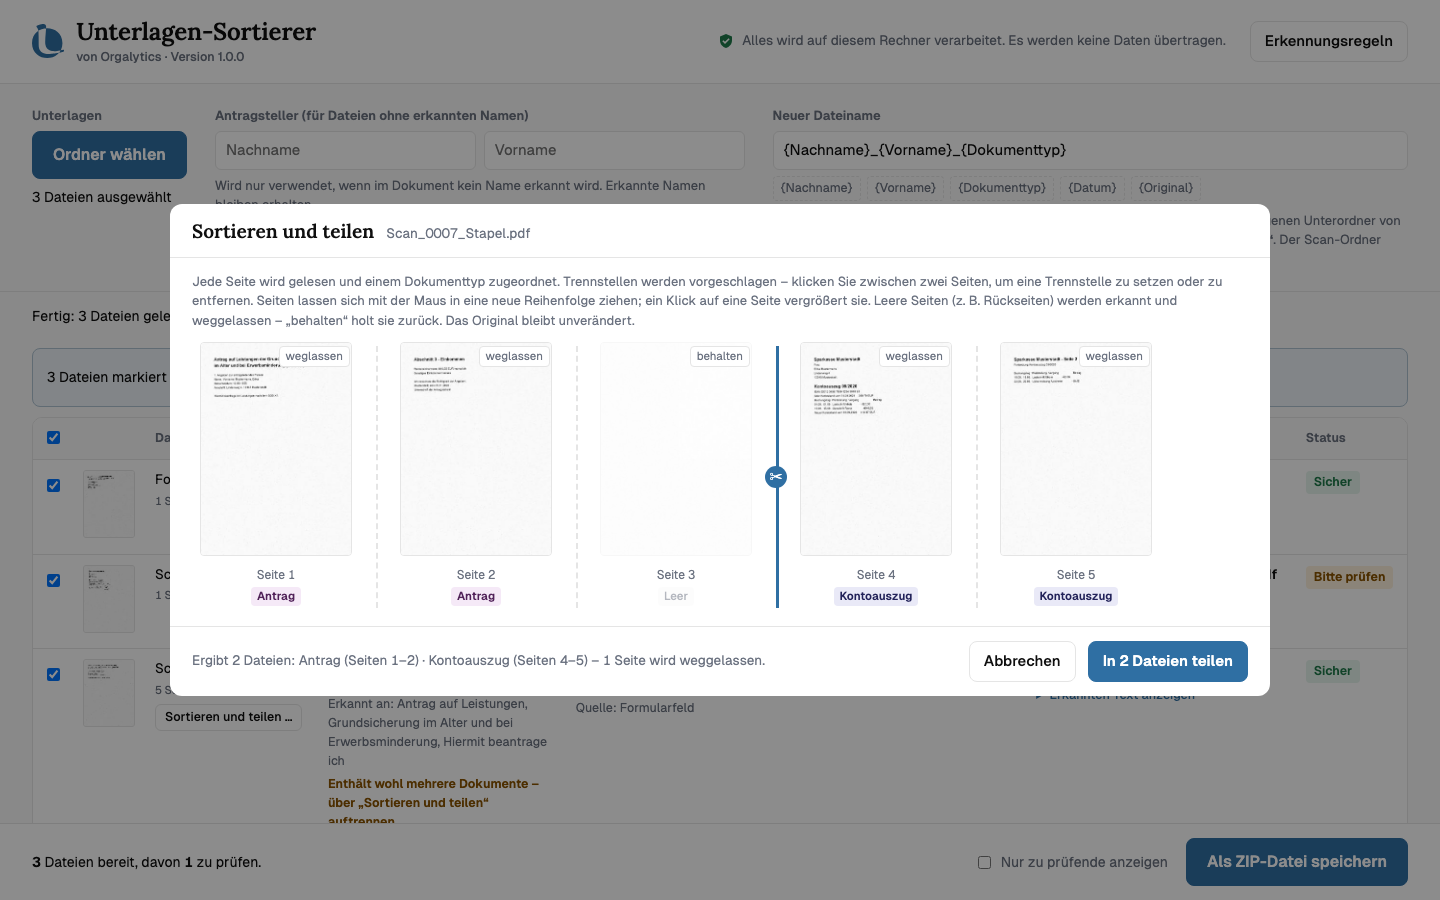
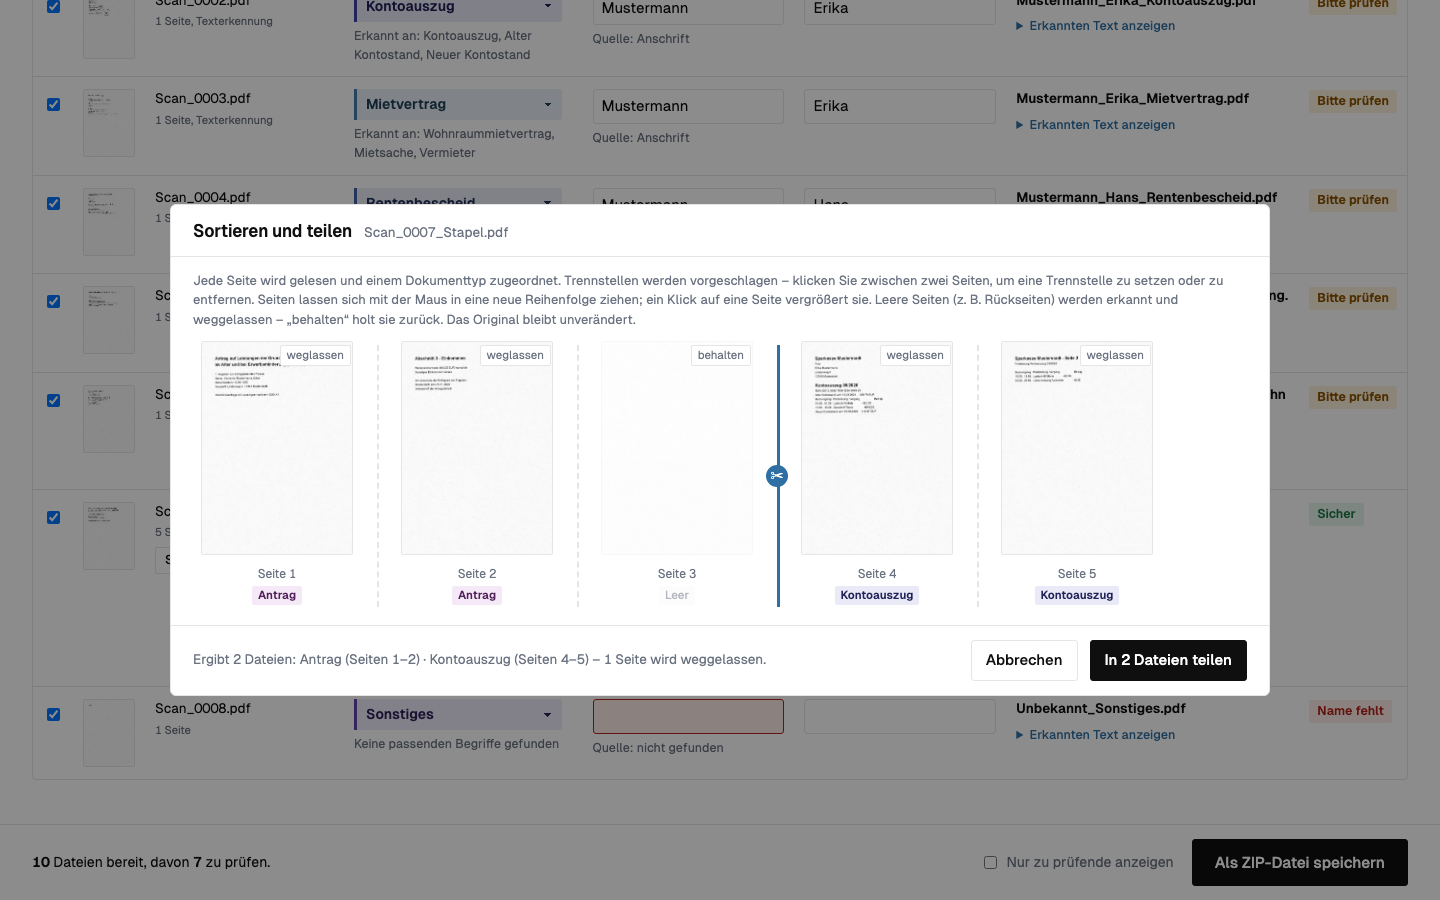
Design-Überarbeitung im Orgalytics-Stil (v1.2.0)
Anker: www.orgalytics.de. Weiße Flächen mit Haarlinien statt grauer
Kästen, Geist-Typografie, Radius und Schatten reduziert. Aktionsknöpfe
in Textfarbe (im Dunkelmodus invertiert), Markenblau nur noch als
Akzent (Links, Auswahl, Fortschritt, Fokus). Neuer Startbildschirm in
der Bildsprache der Website (Lora-kursives Akzentwort). Dunkler Modus
entsprechend überarbeitet; alle Farben weiterhin aus programm/marke.js.

README-Screenshots erneuert, CI-Test prüft zusätzlich Akzentwort und
Aktionsknopf-Farbe (jetzt 163 Prüfungen, alle grün).

diff --git a/Unterlagen-Sortierer/Unterlagen-Sortierer.html b/Unterlagen-Sortierer/Unterlagen-Sortierer.html
@@ -13,16 +13,19 @@
   --brand-muted: #6b7280;
   --brand-line: #e5e5e5;
   --font-text: "Geist", "Segoe UI Variable Text", "Segoe UI", system-ui, sans-serif;
-  --font-title: "Lora", Georgia, "Times New Roman", serif;
+  --font-accent: "Lora", Georgia, "Times New Roman", serif;
 
-  --paper: #fafafa;
+  --paper: #ffffff;
   --sheet: #ffffff;
+  --raised: #fafafa;
   --ink: var(--brand-ink);
   --muted: var(--brand-muted);
   --line: var(--brand-line);
   --accent: var(--brand);
   --accent-ink: #ffffff;
-  --accent-soft: color-mix(in srgb, var(--brand) 9%, white);
+  --accent-soft: color-mix(in srgb, var(--brand) 7%, white);
+  --action: var(--brand-ink);
+  --action-ink: #ffffff;
   --ok: #1f7a4a;
   --ok-bg: #e6f4ec;
   --check: #8a5300;
@@ -35,13 +38,16 @@
 @media (prefers-color-scheme: dark) {
   :root {
     --paper: var(--brand-ink);
-    --sheet: #191919;
+    --sheet: #161616;
+    --raised: #1e1e1e;
     --ink: #f2f2f2;
     --muted: #a3a9b2;
-    --line: #2c2c2c;
+    --line: #2b2b2b;
     --accent: color-mix(in srgb, var(--brand) 62%, white);
     --accent-ink: #0f0f0f;
-    --accent-soft: color-mix(in srgb, var(--brand) 22%, #191919);
+    --accent-soft: color-mix(in srgb, var(--brand) 20%, #161616);
+    --action: #f2f2f2;
+    --action-ink: #0f0f0f;
     --ok: #6ccb95;
     --ok-bg: #16301f;
     --check: #e6b25a;
@@ -66,16 +72,16 @@ button, input, select { font: inherit; color: inherit; }
 /* Kopf */
 .top {
   display: flex; align-items: center; gap: 14px 24px; flex-wrap: wrap;
-  padding: 18px 32px;
+  padding: 16px 32px;
   border-bottom: 1px solid var(--line);
   background: var(--sheet);
 }
 .brand { display: flex; align-items: center; gap: 12px; min-width: 0; }
-.brand .logo { display: flex; height: 34px; }
+.brand .logo { display: flex; height: 30px; }
 .brand .logo svg, .brand .logo img { height: 100%; width: auto; }
 .brand .logo:empty { display: none; }
-.brand h1 { margin: 0; font: 600 24px/1.15 var(--font-title); letter-spacing: -0.005em; }
-.brand .by { display: block; font: 500 12.5px/1.3 var(--font-text); color: var(--muted); margin-top: 3px; }
+.brand h1 { margin: 0; font: 600 17px/1.2 var(--font-text); letter-spacing: -0.01em; }
+.brand .by { display: block; font: 400 12.5px/1.3 var(--font-text); color: var(--muted); margin-top: 2px; }
 .top .safe { margin-left: auto; color: var(--muted); font-size: 13.5px; display: flex; align-items: center; gap: 8px; }
 .top .safe svg { flex: none; color: var(--ok); }
 .brandnote { text-align: center; color: var(--muted); font-size: 12.5px; margin: 28px 0 0; }
@@ -83,31 +89,34 @@ button, input, select { font: inherit; color: inherit; }
 /* Einstellungen */
 .setup {
   background: var(--paper);
-  display: grid; gap: 18px 28px;
+  display: grid; gap: 18px 36px;
   grid-template-columns: auto minmax(240px, 1fr) minmax(260px, 1.2fr);
-  padding: 22px 32px;
+  padding: 24px 32px;
   border-bottom: 1px solid var(--line);
 }
 .setup > div { min-width: 0; }
-.label { display: block; font-size: 13px; font-weight: 600; color: var(--muted); margin-bottom: 6px; }
+.label { display: block; font-size: 13px; font-weight: 600; color: var(--ink); margin-bottom: 8px; }
 .btn {
-  border: 1px solid var(--line); background: var(--sheet); border-radius: 8px; font-weight: 500;
+  border: 1px solid var(--line); background: var(--sheet); border-radius: 3px; font-weight: 500;
   padding: 8px 14px; cursor: pointer; white-space: nowrap;
 }
-.btn:hover { border-color: var(--accent); }
-.btn.primary { background: var(--accent); color: var(--accent-ink); border-color: var(--accent); font-weight: 600; }
-.btn.primary:hover { filter: brightness(1.08); }
-.btn:disabled { opacity: .5; cursor: not-allowed; filter: none; }
-.btn.big { padding: 11px 20px; font-size: 16px; }
+.btn:hover { border-color: var(--ink); }
+.btn.primary { background: var(--action); color: var(--action-ink); border-color: var(--action); font-weight: 500; }
+.btn.primary:hover { background: color-mix(in srgb, var(--action) 82%, var(--paper)); border-color: color-mix(in srgb, var(--action) 82%, var(--paper)); }
+.btn:disabled { opacity: .5; cursor: not-allowed; }
+.btn:disabled:hover { border-color: var(--line); }
+.btn.primary:disabled:hover { background: var(--action); border-color: var(--action); }
+.btn.big { padding: 11px 22px; font-size: 15.5px; }
 .field { display: flex; gap: 8px; flex-wrap: wrap; }
 .field input[type=text], .field select {
-  border: 1px solid var(--line); background: var(--sheet); border-radius: 6px; padding: 7px 10px; min-width: 0;
+  border: 1px solid var(--line); background: var(--sheet); border-radius: 3px; padding: 7px 10px; min-width: 0;
 }
+.field input[type=text]:hover, .field select:hover { border-color: var(--muted); }
 .field input[type=text] { flex: 1 1 120px; }
 .hint { font-size: 13px; color: var(--muted); margin: 6px 0 0; }
 .chips { display: flex; gap: 6px; flex-wrap: wrap; margin-top: 6px; }
-.chip { font-size: 12.5px; border: 1px dashed var(--line); background: transparent; border-radius: 4px; padding: 2px 7px; cursor: pointer; color: var(--muted); }
-.chip:hover { color: var(--ink); border-color: var(--accent); }
+.chip { font-size: 12.5px; border: 1px solid var(--line); background: transparent; border-radius: 2px; padding: 2px 7px; cursor: pointer; color: var(--muted); }
+.chip:hover { color: var(--ink); border-color: var(--ink); }
 .radio { display: flex; flex-direction: column; gap: 4px; margin-top: 10px; font-size: 14px; }
 .radio label { display: flex; gap: 8px; align-items: center; cursor: pointer; }
 .folder { margin-top: 8px; font-size: 14px; word-break: break-all; }
@@ -123,23 +132,31 @@ button, input, select { font: inherit; color: inherit; }
 /* Liste */
 .list { padding: 10px 32px 120px; }
 .empty {
-  background: var(--sheet);
-  border: 1.5px dashed color-mix(in srgb, var(--brand) 35%, var(--line)); border-radius: 10px; padding: 48px 24px; text-align: center; color: var(--muted);
-  max-width: 760px; margin: 24px auto;
+  background: var(--paper);
+  border: 1.5px dashed transparent; border-radius: 6px;
+  padding: 56px 8px 72px; max-width: 820px; margin: 0 auto;
 }
-.empty p { margin: 6px 0; }
-.tablewrap { overflow-x: auto; background: var(--sheet); border: 1px solid var(--line); border-radius: 10px; }
+.empty .eyebrow {
+  margin: 0 0 20px; font-size: 11.5px; font-weight: 600; letter-spacing: .15em;
+  text-transform: uppercase; color: var(--muted);
+}
+.empty h2 { margin: 0 0 18px; font: 600 clamp(26px, 3.4vw, 38px)/1.12 var(--font-text); letter-spacing: -0.02em; color: var(--ink); }
+.empty h2 em { font-family: var(--font-accent); font-style: italic; font-weight: 400; color: var(--accent); }
+.empty p { margin: 8px 0; color: var(--ink); max-width: 58ch; font-size: 15.5px; }
+.empty p.sub { color: var(--muted); font-size: 14px; margin-top: 14px; }
+.tablewrap { overflow-x: auto; background: var(--sheet); border: 1px solid var(--line); border-radius: 4px; }
 table { border-collapse: collapse; width: 100%; min-width: 980px; }
-th { text-align: left; font-size: 12.5px; font-weight: 600; color: var(--muted); padding: 10px 10px; border-bottom: 1px solid var(--line); white-space: nowrap; background: var(--paper); }
-td { padding: 10px 10px; border-bottom: 1px solid var(--line); vertical-align: top; }
+th { text-align: left; font-size: 12.5px; font-weight: 600; color: var(--muted); padding: 11px 10px; border-bottom: 1px solid var(--line); white-space: nowrap; background: var(--sheet); }
+td { padding: 12px 10px; border-bottom: 1px solid var(--line); vertical-align: top; }
 tr:last-child td { border-bottom: 0; }
 tr.skip td { opacity: .45; }
-td.sel { width: 36px; padding-top: 16px; }
+td.sel { width: 36px; padding-top: 18px; }
 td.thumb { width: 64px; }
 .thumbbox {
-  width: 52px; height: 68px; border: 1px solid var(--line); border-radius: 3px; background: var(--paper);
+  width: 52px; height: 68px; border: 1px solid var(--line); border-radius: 2px; background: var(--raised);
   display: grid; place-items: center; overflow: hidden; cursor: pointer; padding: 0;
 }
+.thumbbox:hover { border-color: var(--muted); }
 .thumbbox img { width: 100%; height: 100%; object-fit: cover; object-position: top; }
 .orig { font-size: 13.5px; word-break: break-all; max-width: 220px; }
 .orig small { display: block; color: var(--muted); margin-top: 2px; }
@@ -149,8 +166,8 @@ td.thumb { width: 64px; }
   --h: 210;
   position: relative; display: inline-flex; align-items: center;
   background: hsl(var(--h) 45% 94%); color: hsl(var(--h) 45% 24%);
-  border-left: 4px solid hsl(var(--h) 45% 46%);
-  border-radius: 0 6px 6px 0; padding: 0 4px 0 0; max-width: 220px;
+  border-left: 3px solid hsl(var(--h) 45% 46%);
+  border-radius: 0 3px 3px 0; padding: 0 4px 0 0; max-width: 220px;
 }
 @media (prefers-color-scheme: dark) {
   .tab { background: hsl(var(--h) 25% 18%); color: hsl(var(--h) 55% 85%); border-left-color: hsl(var(--h) 45% 60%); }
@@ -165,22 +182,23 @@ td.thumb { width: 64px; }
 .why { font-size: 12.5px; color: var(--muted); margin-top: 5px; max-width: 220px; }
 
 td input.name {
-  width: 100%; min-width: 110px; border: 1px solid var(--line); background: var(--sheet); border-radius: 5px; padding: 5px 8px;
+  width: 100%; min-width: 110px; border: 1px solid var(--line); background: var(--sheet); border-radius: 3px; padding: 5px 8px;
 }
+td input.name:hover { border-color: var(--muted); }
 td input.name:invalid, td input.name.missing { border-color: var(--miss); background: var(--miss-bg); }
 .src { font-size: 12.5px; color: var(--muted); margin-top: 5px; }
 .newname { font-size: 13.5px; font-weight: 600; word-break: break-all; max-width: 300px; }
 .newname.dim { font-weight: 400; color: var(--muted); }
-.state { display: inline-block; font-size: 12.5px; font-weight: 600; border-radius: 4px; padding: 2px 8px; white-space: nowrap; }
+.state { display: inline-block; font-size: 12.5px; font-weight: 600; border-radius: 2px; padding: 2px 8px; white-space: nowrap; }
 .state.ok { color: var(--ok); background: var(--ok-bg); }
 .state.check { color: var(--check); background: var(--check-bg); }
 .state.miss { color: var(--miss); background: var(--miss-bg); }
-.state.wait { color: var(--muted); background: var(--paper); }
+.state.wait { color: var(--muted); background: var(--raised); }
 details { margin-top: 6px; }
 details summary { font-size: 12.5px; color: var(--accent); cursor: pointer; font-weight: 500; }
 details pre {
   white-space: pre-wrap; font: 12.5px/1.4 Consolas, "Cascadia Mono", monospace; max-height: 220px; overflow: auto;
-  background: var(--paper); border: 1px solid var(--line); border-radius: 5px; padding: 8px; margin: 6px 0 0; max-width: 520px;
+  background: var(--raised); border: 1px solid var(--line); border-radius: 3px; padding: 8px; margin: 6px 0 0; max-width: 520px;
 }
 
 /* Aktionsleiste */
@@ -197,77 +215,77 @@ details pre {
 .selbar {
   display: flex; align-items: center; gap: 12px; flex-wrap: wrap;
   background: var(--accent-soft); border: 1px solid color-mix(in srgb, var(--brand) 30%, var(--line));
-  border-radius: 8px; padding: 8px 14px; margin: 0 0 10px;
+  border-radius: 3px; padding: 8px 14px; margin: 0 0 10px;
 }
 .selbar span { font-size: 14px; }
 
 /* Ziehen und Ablegen */
-body.drag .empty { border-color: var(--accent); background: var(--accent-soft); color: var(--ink); }
+body.drag .empty { border-color: var(--accent); background: var(--accent-soft); }
 body.drag .tablewrap { outline: 2px dashed var(--accent); outline-offset: -2px; }
 .onlycheck { display: flex; align-items: center; gap: 7px; font-size: 14px; color: var(--muted); cursor: pointer; white-space: nowrap; }
 
 /* Kleine Knöpfe in der Tabelle (Teilen, Verwerfen) */
-.btn.mini { font-size: 12.5px; padding: 3px 9px; margin-top: 6px; border-radius: 6px; }
+.btn.mini { font-size: 12.5px; padding: 3px 9px; margin-top: 6px; border-radius: 2px; }
 .why.warn { color: var(--check); font-weight: 600; }
 
 /* Teilen-Dialog */
 dialog.split {
-  border: none; border-radius: 12px; padding: 0;
+  border: 1px solid var(--line); border-radius: 6px; padding: 0;
   background: var(--sheet); color: var(--ink);
   width: min(1100px, 94vw); max-height: 90vh;
 }
 dialog.split::backdrop { background: rgba(0, 0, 0, .45); }
 .dlghead { display: flex; align-items: baseline; gap: 12px; flex-wrap: wrap; padding: 16px 22px 12px; border-bottom: 1px solid var(--line); }
-.dlghead h2 { margin: 0; font: 600 19px/1.2 var(--font-title); }
+.dlghead h2 { margin: 0; font: 600 17px/1.25 var(--font-text); letter-spacing: -0.01em; }
 .dlghead .file { color: var(--muted); font-size: 13.5px; word-break: break-all; }
 .dlgbody { padding: 14px 22px; overflow: auto; max-height: calc(90vh - 170px); }
 .dlgbody .hint { margin: 0 0 12px; }
 .pages { display: flex; flex-wrap: wrap; align-items: flex-start; row-gap: 16px; }
 .page { width: 168px; text-align: center; position: relative; }
-.page img { width: 152px; max-height: 214px; object-fit: contain; background: #fff; border: 1px solid var(--line); border-radius: 4px; cursor: zoom-in; }
+.page img { width: 152px; max-height: 214px; object-fit: contain; background: #fff; border: 1px solid var(--line); border-radius: 2px; cursor: zoom-in; }
 .page .pno { display: block; font-size: 12px; color: var(--muted); margin-top: 3px; }
 .page .skippage {
-  position: absolute; top: 4px; right: 10px; font-size: 11.5px; border: 1px solid var(--line); border-radius: 4px;
+  position: absolute; top: 4px; right: 10px; font-size: 11.5px; border: 1px solid var(--line); border-radius: 2px;
   background: var(--sheet); color: var(--muted); cursor: pointer; padding: 1px 6px;
 }
 .page .skippage:hover { border-color: var(--accent); color: var(--ink); }
 .page.drop img { opacity: .3; }
 .page.drop .ptype { opacity: .5; }
 .ptype {
-  display: inline-block; font-size: 11.5px; font-weight: 600; border-radius: 4px; padding: 1px 6px; margin-top: 3px; max-width: 150px;
+  display: inline-block; font-size: 11.5px; font-weight: 600; border-radius: 2px; padding: 1px 6px; margin-top: 3px; max-width: 150px;
   overflow: hidden; text-overflow: ellipsis; white-space: nowrap;
   background: hsl(var(--h) 45% 94%); color: hsl(var(--h) 45% 24%);
 }
-.ptype.vage { background: var(--paper); color: var(--muted); font-weight: 500; }
+.ptype.vage { background: var(--raised); color: var(--muted); font-weight: 500; }
 @media (prefers-color-scheme: dark) {
   .ptype { background: hsl(var(--h) 25% 18%); color: hsl(var(--h) 55% 85%); }
-  .ptype.vage { background: var(--paper); color: var(--muted); }
+  .ptype.vage { background: var(--raised); color: var(--muted); }
 }
 /* Regeln-Ansicht */
 .rule { padding: 10px 0; border-bottom: 1px solid var(--line); }
 .rule:last-child { border-bottom: 0; }
 .rule .tabname {
-  display: inline-block; font-weight: 600; font-size: 14px; border-left: 4px solid hsl(var(--h) 45% 46%);
-  background: hsl(var(--h) 45% 94%); color: hsl(var(--h) 45% 24%); border-radius: 0 6px 6px 0; padding: 3px 10px 3px 8px; margin-bottom: 7px;
+  display: inline-block; font-weight: 600; font-size: 14px; border-left: 3px solid hsl(var(--h) 45% 46%);
+  background: hsl(var(--h) 45% 94%); color: hsl(var(--h) 45% 24%); border-radius: 0 3px 3px 0; padding: 3px 10px 3px 8px; margin-bottom: 7px;
 }
 @media (prefers-color-scheme: dark) {
   .rule .tabname { background: hsl(var(--h) 25% 18%); color: hsl(var(--h) 55% 85%); border-left-color: hsl(var(--h) 45% 60%); }
 }
 .rule .kws { display: flex; flex-wrap: wrap; gap: 5px; }
-.kw { font-size: 12.5px; border-radius: 4px; padding: 2px 8px; }
+.kw { font-size: 12.5px; border-radius: 2px; padding: 2px 8px; }
 .kw.stark { background: var(--accent-soft); color: var(--ink); border: 1px solid color-mix(in srgb, var(--brand) 35%, var(--line)); font-weight: 600; }
-.kw.schwach { background: var(--paper); color: var(--muted); border: 1px dashed var(--line); }
+.kw.schwach { background: var(--raised); color: var(--muted); border: 1px solid var(--line); }
 
 /* Dokumentvorschau im selben Fenster */
 .pv { position: fixed; inset: 0; z-index: 40; background: rgba(0, 0, 0, .55); display: grid; place-items: center; }
 .pvbox {
-  background: var(--sheet); color: var(--ink); border-radius: 12px; box-shadow: 0 10px 40px rgba(0,0,0,.45);
+  background: var(--sheet); color: var(--ink); border-radius: 6px; box-shadow: 0 10px 40px rgba(0,0,0,.45);
   width: min(960px, 94vw); max-height: 92vh; display: flex; flex-direction: column;
 }
 .pvhead { display: flex; align-items: center; gap: 8px; flex-wrap: wrap; padding: 10px 16px; border-bottom: 1px solid var(--line); }
 .pvtitle { flex: 1 1 200px; font-weight: 600; word-break: break-all; }
 .pvbody { display: flex; align-items: center; gap: 8px; padding: 12px; min-height: 0; }
-.pvbody img { flex: 1; min-width: 0; max-height: calc(92vh - 130px); object-fit: contain; background: #fff; border: 1px solid var(--line); border-radius: 4px; }
+.pvbody img { flex: 1; min-width: 0; max-height: calc(92vh - 130px); object-fit: contain; background: #fff; border: 1px solid var(--line); border-radius: 2px; }
 .pvnav { font-size: 20px; padding: 6px 12px; }
 .pvnav:disabled { opacity: .3; }
 .pvfoot { text-align: center; color: var(--muted); font-size: 13px; padding: 0 0 10px; }
@@ -346,8 +364,10 @@ dialog.split::backdrop { background: rgba(0, 0, 0, .45); }
 
 <main class="list" id="list">
   <div class="empty" id="empty">
-    <p><strong>Wählen Sie den Ordner mit den eingescannten Unterlagen – oder ziehen Sie Dateien bzw. einen Ordner einfach hierher.</strong></p>
-    <p>Gelesen werden PDF-, JPG- und PNG-Dateien. Sie prüfen die Vorschläge, bevor etwas umbenannt wird.</p>
+    <p class="eyebrow">PDF — JPG — PNG</p>
+    <h2>Unterlagen <em>wirksam</em> sortieren.</h2>
+    <p>Wählen Sie den Ordner mit den eingescannten Unterlagen – oder ziehen Sie Dateien bzw. einen Ordner einfach hierher.</p>
+    <p class="sub">Das Programm erkennt Dokumenttyp und Person. Sie prüfen jeden Vorschlag, bevor etwas umbenannt wird.</p>
   </div>
   <div class="selbar hidden" id="selbar">
     <span id="selinfo"></span>

diff --git a/tests/test_ci.py b/tests/test_ci.py
@@ -18,7 +18,9 @@ async def main():
         await pg.goto(APP); await pg.evaluate("document.fonts.ready")
         P.check("Geist geladen", await pg.evaluate("document.fonts.check('16px Geist')"))
         P.check("Lora geladen", await pg.evaluate("document.fonts.check('600 24px Lora')"))
-        P.check("Primärfarbe aus marke.js", await pg.evaluate("getComputedStyle(document.querySelector('#pick')).backgroundColor") == rgb(prim))
+        P.check("Primärfarbe aus marke.js", await pg.evaluate("getComputedStyle(document.documentElement).getPropertyValue('--brand').trim()") == prim)
+        P.check("Akzentwort in Primärfarbe", await pg.evaluate("getComputedStyle(document.querySelector('.empty h2 em')).color") == rgb(prim))
+        P.check("Aktionsknopf in Textfarbe (Website-Stil)", await pg.evaluate("getComputedStyle(document.querySelector('#pick')).backgroundColor") == rgb(text))
         P.check("Textfarbe aus marke.js", await pg.evaluate("getComputedStyle(document.body).color") == rgb(text))
         P.check("Firmenname im Kopf", firma in await pg.inner_text(".brand"))
         await pg.set_input_files("#filepick", DOCS)

diff --git a/CLAUDE.md b/CLAUDE.md
@@ -16,6 +16,10 @@ anklicken; es gibt keine Modi und keine Einstellungen, die der Service Point ver
 3. **Vor jeder Übergabe `tests/alle_tests.sh`** – alle Tests müssen bestehen. Neue Funktion = neuer Test.
 4. **CI nur über `programm/marke.js`.** Keine Markenwerte (Farben, Namen, Logo) in der HTML hart
    kodieren. Quelle der Orgalytics-Werte: die internen Markenvorlagen. Nie Farben oder Texte raten.
+   Designsprache (seit 1.2.0, Anker: www.orgalytics.de): weiße Flächen, Haarlinien (`--line`),
+   Radius 2–6 px, keine Karten-Schatten; Aktionsknöpfe (`.btn.primary`) in Textfarbe (`--action`,
+   im Dunkelmodus invertiert), Markenblau NUR als Akzent (Links, Auswahl, Fortschritt, Fokus und
+   das Lora-kursive Akzentwort im Startbildschirm). Überschriften in Geist, Lora nur kursiv als Akzent.
 5. **Kein Build-Schritt für Kunden.** Das Programm muss als entpackter Ordner per file:// laufen.
    Auf oberster Ebene liegt genau EINE Datei (`Unterlagen-Sortierer.html`); release_bauen.sh erzwingt das.
 6. Oberfläche und Texte auf Deutsch, Satzanfang groß, aktive Verben („Dateien umbenennen“, nicht „Absenden“).

diff --git a/CHANGELOG.md b/CHANGELOG.md
@@ -2,6 +2,21 @@
 
 Alle nennenswerten Änderungen am Unterlagen-Sortierer werden hier festgehalten.
 
+## 1.2.0 – 2026-11-06
+
+Neues, schlichtes Erscheinungsbild im Orgalytics-Stil (www.orgalytics.de als
+Anker) – an der Bedienung ändert sich nichts:
+
+- Weiße Flächen mit feinen Trennlinien statt grauer Kästen; klare, ruhige
+  Typografie (Geist); abgerundete Ecken und Schatten stark reduziert.
+- Aktionsknöpfe („Ordner wählen“, „Umbenennen“) jetzt in der Textfarbe –
+  wie auf der Website; die Markenfarbe Blau bleibt sparsamer Akzent für
+  Links, Markierungen und den Fortschrittsbalken.
+- Neuer Startbildschirm mit kurzer Erklärung in der Bildsprache der Website.
+- Dunkler Modus entsprechend überarbeitet.
+- Alle Farben kommen weiterhin aus `programm/marke.js` – für andere
+  Kunden-Designs genügt es, diese Datei zu tauschen.
+
 ## 1.1.0 – 2026-11-06
 
 Vereinfachungen nach dem ersten Praxistest – es gibt keine Modi und keine
